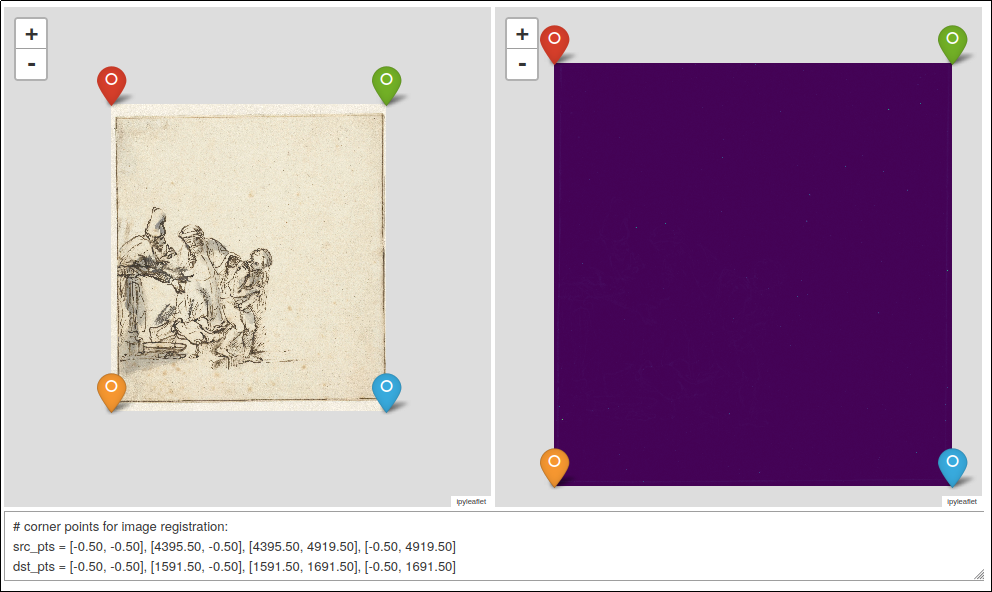
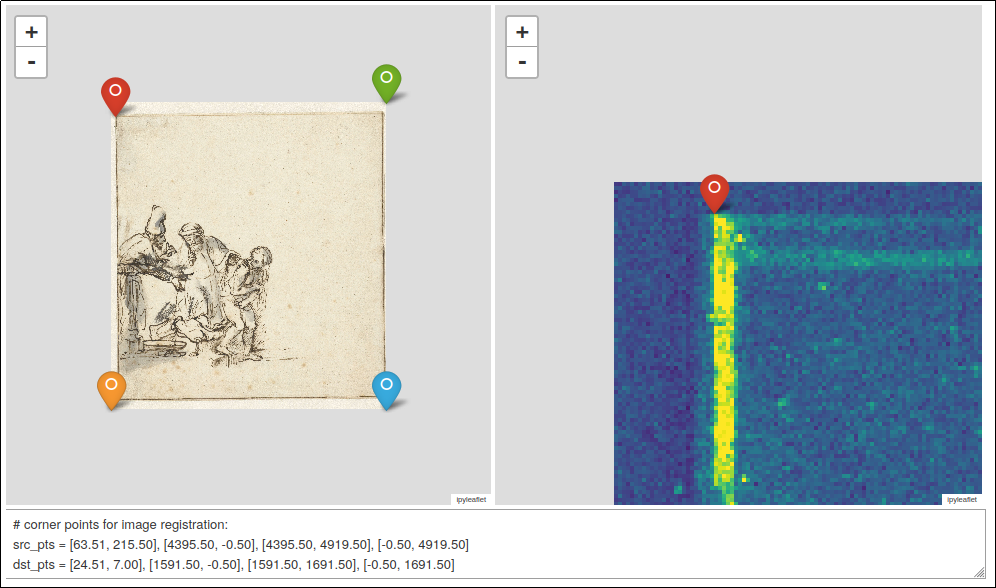
image registration screenshot(2)

diff --git a/docs/spatial-verus-spectral.html b/docs/spatial-verus-spectral.html
@@ -76,10 +76,10 @@ nb_path: "notebooks/30_spatial-verus-spectral.ipynb"
 
 
 
-<div id="358684f3-e69f-4b22-b623-480b2d1a2689"></div>
+<div id="e91809e6-d136-4ba9-992c-2bc75f6faf7c"></div>
 <div class="output_subarea output_javascript ">
 <script type="text/javascript">
-var element = $('#358684f3-e69f-4b22-b623-480b2d1a2689');
+var element = $('#e91809e6-d136-4ba9-992c-2bc75f6faf7c');
 /* Put everything inside the global mpl namespace */
 /* global mpl */
 window.mpl = {};
@@ -1109,10 +1109,10 @@ if (IPython.notebook.kernel !== null) {
 
 
 
-<div id="dfa9e93c-3b69-4a89-bbef-71d5ad3c8c40"></div>
+<div id="51efff85-758c-40bc-ab1e-6124f7128bca"></div>
 <div class="output_subarea output_javascript ">
 <script type="text/javascript">
-var element = $('#dfa9e93c-3b69-4a89-bbef-71d5ad3c8c40');
+var element = $('#51efff85-758c-40bc-ab1e-6124f7128bca');
 /* Put everything inside the global mpl namespace */
 /* global mpl */
 window.mpl = {};
@@ -2153,7 +2153,7 @@ if (IPython.notebook.kernel !== null) {
 
 <div class="inner_cell">
     <div class="input_area">
-<div class=" highlight hl-ipython3"><pre><span></span><span class="n">imreg</span> <span class="o">=</span> <span class="n">ImageRegistrationHelper</span><span class="p">(</span><span class="n">im_src</span><span class="p">,</span> <span class="n">im_dst</span><span class="p">)</span>
+<div class=" highlight hl-ipython3"><pre><span></span><span class="n">imreg</span> <span class="o">=</span> <span class="n">ImageRegistrationHelper</span><span class="p">(</span><span class="n">im_src</span><span class="p">,</span> <span class="n">np</span><span class="o">.</span><span class="n">clip</span><span class="p">(</span><span class="n">im_dst</span><span class="p">,</span> <span class="n">a_min</span><span class="o">=</span><span class="mi">0</span><span class="p">,</span> <span class="n">a_max</span><span class="o">=</span><span class="mi">2</span><span class="p">))</span>
 </pre></div>
 
     </div>
@@ -2165,7 +2165,8 @@ if (IPython.notebook.kernel !== null) {
 
 <div class="cell border-box-sizing text_cell rendered"><div class="inner_cell">
 <div class="text_cell_render border-box-sizing rendered_html">
-<p>{% include image.html file="/maxrf4u/images/imreg-screenshot.png" %}</p>
+<p>{% include image.html width="80%" max-width="80%" file="/maxrf4u/images/imreg-screenshot.png" %}</p>
+<p>(Screenshot)</p>
 
 </div>
 </div>
@@ -2259,10 +2260,10 @@ dst_points = [[-0.5, -0.5], [1591.5, -0.5], [1591.5, 1691.5], [-0.5, 1691.5]]
 
 
 
-<div id="0d914013-e970-4aba-b950-249811d74e57"></div>
+<div id="fa0a5a4b-eaf6-4f56-93a3-86118a08e582"></div>
 <div class="output_subarea output_javascript ">
 <script type="text/javascript">
-var element = $('#0d914013-e970-4aba-b950-249811d74e57');
+var element = $('#fa0a5a4b-eaf6-4f56-93a3-86118a08e582');
 /* Put everything inside the global mpl namespace */
 /* global mpl */
 window.mpl = {};
